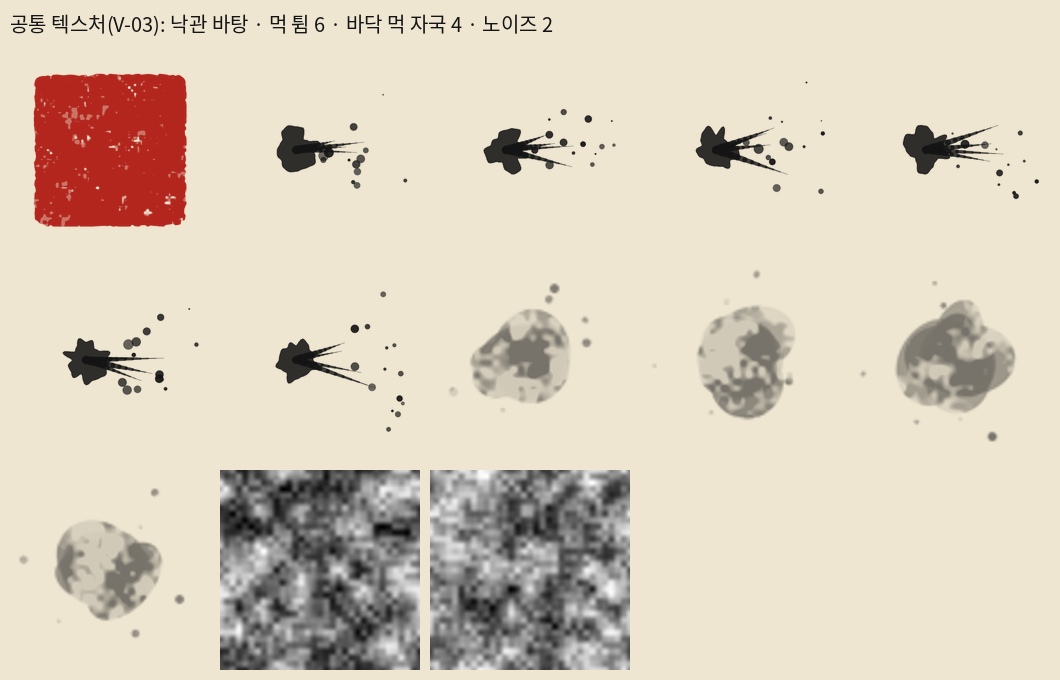
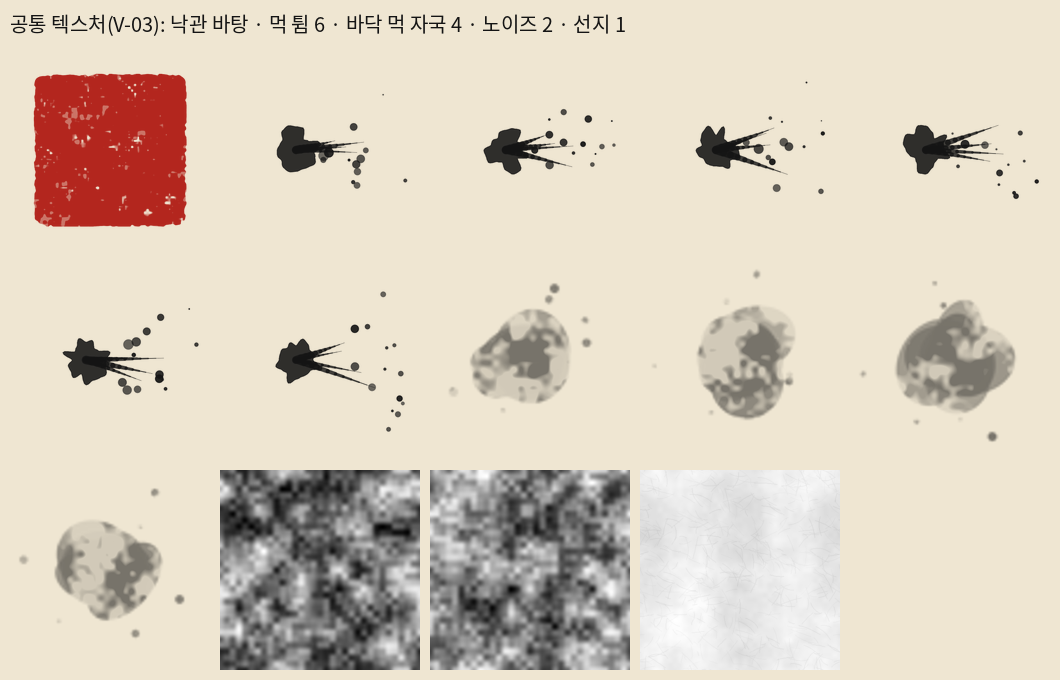
VF-10 선지 바닥 텍스처를 코드로 구움(FL-01U 재료)
Claude-Session: https://claude.ai/code/session_01JznnPQTdTPTrjYcPq9XWaT

Changed region(s): [[0.5915, 0.6794, 0.8094, 0.9882], [0.5292, 0.0309, 0.5915, 0.0618]]

diff --git a/tools/bake_brush.py b/tools/bake_brush.py
@@ -25,7 +25,7 @@ import sys
 from pathlib import Path
 
 import numpy as np
-from PIL import Image, ImageDraw, ImageFont
+from PIL import Image, ImageDraw, ImageFilter, ImageFont
 
 ROOT = Path(__file__).resolve().parent.parent
 OUT_DIR = ROOT / "unity/BloodRain/Assets/Art/VFX/Brush"
@@ -586,6 +586,33 @@ def ground_stain(seed: int):
     return a
 
 
+def paper_fiber(seed: int):
+    """선지 바닥 한 겹(FL-01U, review 5-1): 아주 옅은 얼룩 + 가는 섬유. 1 이 흰 종이, 어두울수록 섬유·얼룩.
+    네 변을 감아 그려서 타일로 깔아도 이음매가 없다. 색과 세기는 셰이더 몫."""
+    rng = random.Random(seed)
+    S = SIZE
+    stain = value_noise(rng, ((4, 0.55), (12, 0.3), (40, 0.15)))
+    stain = (stain - stain.min()) / (stain.max() - stain.min())
+    fib = Image.new("L", (S, S), 0)
+    d = ImageDraw.Draw(fib)
+    for _ in range(520):
+        x, y = rng.random() * S, rng.random() * S
+        ang = rng.gauss(0.35, 0.9)          # 섬유는 한쪽으로 조금 쏠린다(뜬 결)
+        L = rng.uniform(10, 60)
+        bend = rng.uniform(-0.5, 0.5)
+        val = rng.randint(30, 110)
+        pts = []
+        for k in range(7):
+            u = k / 6
+            a = ang + bend * (u - 0.5)
+            pts.append((x + math.cos(a) * L * u, y + math.sin(a) * L * u))
+        for ox in (-S, 0, S):
+            for oy in (-S, 0, S):
+                d.line([(px + ox, py + oy) for px, py in pts], fill=val, width=1)
+    f = np.asarray(fib.filter(ImageFilter.GaussianBlur(0.6)), dtype=np.float32) / 255
+    return np.clip(1.0 - stain * 0.16 - f * 0.22, 0, 1)
+
+
 def gray_png(a: np.ndarray) -> bytes:
     buf = io.BytesIO()
     Image.fromarray(np.uint8(np.round(np.clip(a, 0, 1) * 255)), "L").save(buf, format="PNG", optimize=True)
@@ -604,19 +631,20 @@ def bake_common():
         n = value_noise(random.Random(7300 + i))
         n = (n - n.min()) / (n.max() - n.min())
         files[f"noise_{i}.png"] = gray_png(n)
-    meta = {"_note": "tools/bake_brush.py 가 쓴다. 손으로 고치지 않는다. 흰색 + 알파(색은 셰이더): seal_base 낙관 바탕(글자는 Unity 에서 얹음, 색은 낙관 주홍), ink_splat 먹 튐(+x 로 튐, 한 변 1.4m), ground_ink 바닥 먹 자국(한 변 3m). 회색: noise 소멸(_Dissolve)용 값 노이즈, 감아 이어 붙여도 이음매가 없다.",
+    files["paper_1.png"] = gray_png(paper_fiber(7401))
+    meta = {"_note": "tools/bake_brush.py 가 쓴다. 손으로 고치지 않는다. 흰색 + 알파(색은 셰이더): seal_base 낙관 바탕(글자는 Unity 에서 얹음, 색은 낙관 주홍), ink_splat 먹 튐(+x 로 튐, 한 변 1.4m), ground_ink 바닥 먹 자국(한 변 3m). 회색: noise 소멸(_Dissolve)용 값 노이즈, paper 선지 바닥 한 겹(1 이 흰 종이, 한 변 6m 로 깖), 둘 다 감아 이어 붙여도 이음매가 없다.",
             "sizeMeters": {"ink_splat": 1.4, "ground_ink": 3.0}}
     files["common.json"] = (json.dumps(meta, ensure_ascii=False, indent=2) + "\n").encode("utf-8")
     return files
 
 
 def common_preview(files) -> Image.Image:
-    names = ["seal_base.png"] + [f"ink_splat_{i}.png" for i in range(1, 7)] + [f"ground_ink_{i}.png" for i in range(1, 5)] + ["noise_1.png", "noise_2.png"]
+    names = ["seal_base.png"] + [f"ink_splat_{i}.png" for i in range(1, 7)] + [f"ground_ink_{i}.png" for i in range(1, 5)] + ["noise_1.png", "noise_2.png", "paper_1.png"]
     cell, gap, cols = 200, 10, 5
     rows = (len(names) + cols - 1) // cols
     img = Image.new("RGB", (cols * (cell + gap) + gap, rows * (cell + gap) + gap + 40), PAPER)
     d = ImageDraw.Draw(img)
-    d.text((gap, 8), "공통 텍스처(V-03): 낙관 바탕 · 먹 튐 6 · 바닥 먹 자국 4 · 노이즈 2", fill=INK, font=_font(20))
+    d.text((gap, 8), "공통 텍스처(V-03): 낙관 바탕 · 먹 튐 6 · 바닥 먹 자국 4 · 노이즈 2 · 선지 1", fill=INK, font=_font(20))
     for k, n in enumerate(names):
         x, y = gap + (k % cols) * (cell + gap), 40 + gap + (k // cols) * (cell + gap)
         im = Image.open(io.BytesIO(files[n]))

diff --git a/core/BloodRain.Core.Tests/BrushTextureTests.cs b/core/BloodRain.Core.Tests/BrushTextureTests.cs
@@ -101,7 +101,7 @@ namespace BloodRain.Core.Tests
                 }
         }
 
-        [Fact] public void 공통_텍스처_낙관_바탕_먹_튐_6_바닥_먹_자국_4_노이즈_2()
+        [Fact] public void 공통_텍스처_낙관_바탕_먹_튐_6_바닥_먹_자국_4_노이즈_2_선지_1()
         {
             var dir = Path.GetFullPath(Path.Combine(Dir, "..", "Common"));
             var names = Directory.GetFiles(dir, "*.png").Select(f => Path.GetFileName(f)!).ToList();
@@ -109,13 +109,14 @@ namespace BloodRain.Core.Tests
             Assert.Equal(6, names.Count(n => n.StartsWith("ink_splat_")));
             Assert.Equal(4, names.Count(n => n.StartsWith("ground_ink_")));
             Assert.Equal(2, names.Count(n => n.StartsWith("noise_")));
-            Assert.Equal(13, names.Count);
+            Assert.Single(names, n => n == "paper_1.png");   // 선지 바닥 한 겹(FL-01U)
+            Assert.Equal(14, names.Count);
             Assert.True(File.Exists(Path.Combine(dir, "common.json")));
             foreach (var n in names)
             {
                 var (w, h, ct) = Header(Path.Combine(dir, n));
                 Assert.Equal((512, 512), (w, h));
-                Assert.Equal(n.StartsWith("noise_") ? 0 : 6, ct); // 노이즈는 회색 한 채널, 나머지는 흰색 + 알파
+                Assert.Equal(n.StartsWith("noise_") || n.StartsWith("paper_") ? 0 : 6, ct); // 노이즈·선지는 회색 한 채널, 나머지는 흰색 + 알파
             }
         }
 

diff --git a/core/BloodRain.Core.Tests/VfxImportSettingsTests.cs b/core/BloodRain.Core.Tests/VfxImportSettingsTests.cs
@@ -55,7 +55,10 @@ namespace BloodRain.Core.Tests
                 Assert.True(Field(meta, "spriteMode") == "1", $"{name}: Single 이 아니다");
                 Assert.True(Field(meta, "enableMipMap") == "0", $"{name}: 밉맵이 켜져 있다");
                 Assert.True(Field(meta, "alphaIsTransparency") == "1", $"{name}: 알파 투명이 꺼져 있다");
-                Assert.True(Field(meta, "wrapU") == "1" && Field(meta, "wrapV") == "1", $"{name}: Clamp 가 아니다");
+                if (Path.GetFileName(name).StartsWith("paper_"))   // 선지 바닥은 깔아 되풀이하는 텍스처라 Repeat(FL-01U)
+                    Assert.True(Field(meta, "wrapU") == "0" && Field(meta, "wrapV") == "0", $"{name}: Repeat 가 아니다");
+                else
+                    Assert.True(Field(meta, "wrapU") == "1" && Field(meta, "wrapV") == "1", $"{name}: Clamp 가 아니다");
             }
         }
 

diff --git a/docs/backlog.md b/docs/backlog.md
@@ -17,6 +17,7 @@ Unity 에디터가 필요한 항목은 `[U]` 표시이고 `docs/unity_tasks.md` 
 review 5·6절에서 쪼갬(2026-11-14 20시, 위 VF 가 끝나서):
 - [x] VF-07 2026-11-14 — 시안 `web/lookdev/levelup.html`: 보통·대오 섞임·돈오·대성 네 경우, 먹 번짐 열림 0.35초(72%까지 어둡게) → 0.12초 뒤 첫 카드, 두루마리 펼침 0.28초·카드 사이 0.06초, 입력 막기 0.35초 줄, 대오는 금빛 테두리 + 펼침 끝 0.1초 뒤 빛줄기 0.55초, 돈오는 카드 줄 위 따로(먹 획 → 0.12초 뒤 문파 색 획 → 0.42초 합쳐진 금빛 획), 대성은 테두리 두 겹. 느리게 ×4 보기. 값은 시안 아래 표, unity_tasks GU-01U·GU-02U '쓸 것'에 시안 주소
 - [x] VF-08 2026-11-14 — `sects.html` 처치 겹: 3단부터 두 동강(스프라이트 셰이더에 `uCut` 반쪽 자르기 + 벤 자리 먹 선, 두 쪽이 0.25초에 0.55m 벌어지고 0.18초부터 흩어짐), 바닥 먹 자국 6 → 8초. 1·2단은 예전처럼 먹으로 번지며 사라짐. vfx.md '타격감 값' 표에 '처치' 줄. Unity 는 HF-01U 가 이 값을 씀
+- [x] VF-10 2026-11-14 — 선지 바닥 텍스처(review 5-1, FL-01U 재료): `tools/bake_brush.py` `paper_fiber` 가 `Art/VFX/Common/paper_1.png`(512 회색, 옅은 얼룩 + 섬유 520가닥, 네 변 감아 그려 이음매 없음, 값 200~255)를 구움, 한 변 6m 는 common.json 설명에만(PPU 셈에서 빠지게), .meta 는 Repeat(`VfxImportSettingsTests` 가 paper_ 만 Repeat 로 봄). `BrushTextureTests` 공통 14장. unity_tasks FL-01U '쓸 것'에
 - [ ] VF-09 나머지 여섯 문파 시안(당가 비도술·수로채 쇄겸술·무당 태극검·화산 낙화검우·곤륜 뇌부·마교 혈조)을 `sects.html` 에 review 6절 표대로. 색은 vfx.md 색 규칙(어두운 자주·연분홍만). 먼저: 사람이 VF-01U 네 무공을 보고 '이 정도'를 정함(6절 순서 2 → 3)
 
 기획 업그레이드(2026-11-13 사람이 `docs/design/roguelike_benchmark.md` 아홉 안을 '추천 순서대로 전부'로 정함. 숫자는 그 문서의 추천값으로 넣고 기획서에 '추천값, 사람이 바꿀 수 있음'이라고 적는다). 숭산 한 생 안에 넣는 넷:

diff --git a/docs/unity_tasks.md b/docs/unity_tasks.md
@@ -43,7 +43,7 @@ Unity 에디터가 있어야 하는 일만 적는다. PC Unity 예약 세션(202
 
 - [ ] FL-01U 바닥을 선지로 · 먼저: 없음
   - 할 것: 지금 바닥은 같은 벽돌 줄눈 + 'v' 풀이 화면 가득 되풀이된다. 선지 질감(옅은 얼룩·섬유) 한 겹을 화면 전체에 깔고, 벽돌 줄눈은 마당·길 안에만, 그 밖은 여백 + 드문 먹 얼룩·풀·돌. 가장자리 어둡게(비네트)는 카메라 쪽 한 겹으로. 휴대폰 생각해 셰이더 한 장으로.
-  - 쓸 것: `Assets/Art/Tiles`, 바닥을 그리는 지금 코드(MapLayer·타일), `Art/VFX/Common` 노이즈
+  - 쓸 것: `Assets/Art/Tiles`, 바닥을 그리는 지금 코드(MapLayer·타일), `Art/VFX/Common/paper_1.png`(선지 한 겹, 회색 1 이 흰 종이, 이음매 없음, 한 변 6m 로 깖, Repeat — 2026-11-14 bake_brush.py 가 구움, .meta 는 noise 를 본뜸. VfxBootstrap 이 Common 을 Clamp 로 되돌리면 paper_ 는 빼 주기, VfxImportSettingsTests 도 paper_ 만 Repeat 로 봄)·노이즈
   - 메뉴: Run 씬 짓는 메뉴에 붙임
   - 끝: 삼류·이류 두 축척에서 바닥 무늬가 되풀이로 안 읽힘. 원화(캐릭터·적)가 바닥보다 또렷함
   - 찍기: `docs/unity_shots/FL-01U/` 의 `floor_realm0.png`·`floor_realm1.png`
